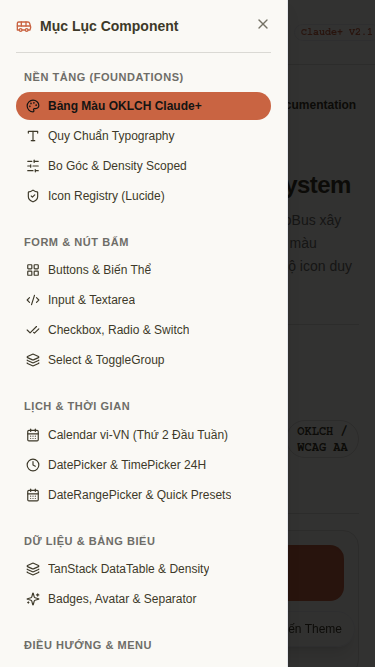
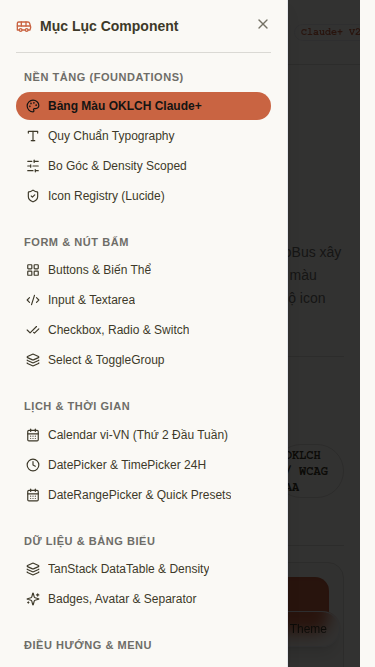
fix(layout): eliminate scroll-lock layout shift when opening dropdowns and popovers

Changed region(s): [[0.7627, 0.0, 1.0, 1.0], [0.7627, 0.7196, 0.792, 0.7496]]

diff --git a/frontend/src/assets/main.css b/frontend/src/assets/main.css
@@ -199,6 +199,11 @@
   --status-info-bg: oklch(0.26 0.08 240.0);
 }
 
+html {
+  /* Prevent horizontal layout shifts when scrollbar appears or modals/dropdowns open */
+  scrollbar-gutter: stable;
+}
+
 html, body {
   font-family: var(--font-sans);
   background-color: var(--background);
@@ -209,6 +214,12 @@ html, body {
   max-width: 100vw;
   -webkit-font-smoothing: antialiased;
   transition: background-color 0.2s ease, color 0.2s ease;
+}
+
+body {
+  /* Prevent scroll lock layout shift when Reka UI / Radix primitives inject padding-right or margin-right */
+  padding-right: 0px !important;
+  margin-right: 0px !important;
 }
 
 .tabular-nums {

diff --git a/frontend/src/App.vue b/frontend/src/App.vue
@@ -1,12 +1,15 @@
 <template>
-  <Toast />
-  <Sonner position="top-right" richColors />
-  <router-view />
+  <ConfigProvider :scroll-body="false">
+    <Toast />
+    <Sonner position="top-right" richColors />
+    <router-view />
+  </ConfigProvider>
 </template>
 
 <script setup>
 import { onMounted, onUnmounted } from 'vue'
 import { useRouter } from 'vue-router'
+import { ConfigProvider } from 'reka-ui'
 import Toast from 'primevue/toast'
 import { Sonner } from '@/components/ui/sonner'
 import { useAuthStore } from '@/modules/auth/store'

diff --git a/frontend/src/components/ui/dropdown-menu/DropdownMenu.vue b/frontend/src/components/ui/dropdown-menu/DropdownMenu.vue
@@ -1,7 +1,9 @@
 <script setup lang="ts">
 import { DropdownMenuRoot, type DropdownMenuRootEmits, type DropdownMenuRootProps, useForwardPropsEmits } from 'reka-ui'
 
-const props = defineProps<DropdownMenuRootProps>()
+const props = withDefaults(defineProps<DropdownMenuRootProps>(), {
+  modal: false
+})
 const emits = defineEmits<DropdownMenuRootEmits>()
 
 const forwarded = useForwardPropsEmits(props, emits)

diff --git a/frontend/src/components/ui/popover/Popover.vue b/frontend/src/components/ui/popover/Popover.vue
@@ -1,7 +1,9 @@
 <script setup lang="ts">
 import { PopoverRoot, type PopoverRootEmits, type PopoverRootProps, useForwardPropsEmits } from 'reka-ui'
 
-const props = defineProps<PopoverRootProps>()
+const props = withDefaults(defineProps<PopoverRootProps>(), {
+  modal: false
+})
 const emits = defineEmits<PopoverRootEmits>()
 
 const forwarded = useForwardPropsEmits(props, emits)

diff --git a/frontend/src/components/ui/select/SelectContent.vue b/frontend/src/components/ui/select/SelectContent.vue
@@ -10,7 +10,8 @@ import {
 import { cn } from '@/lib/utils'
 
 const props = withDefaults(defineProps<SelectContentProps & { class?: any }>(), {
-  position: 'popper'
+  position: 'popper',
+  bodyLock: false
 })
 const emits = defineEmits<SelectContentEmits>()
 
